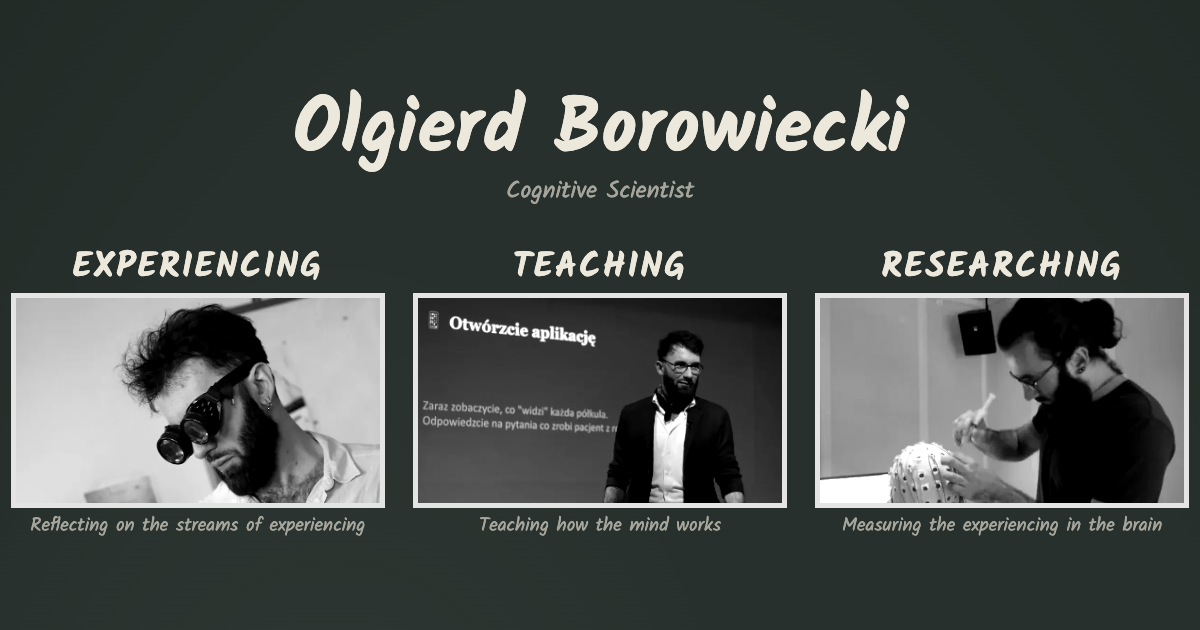
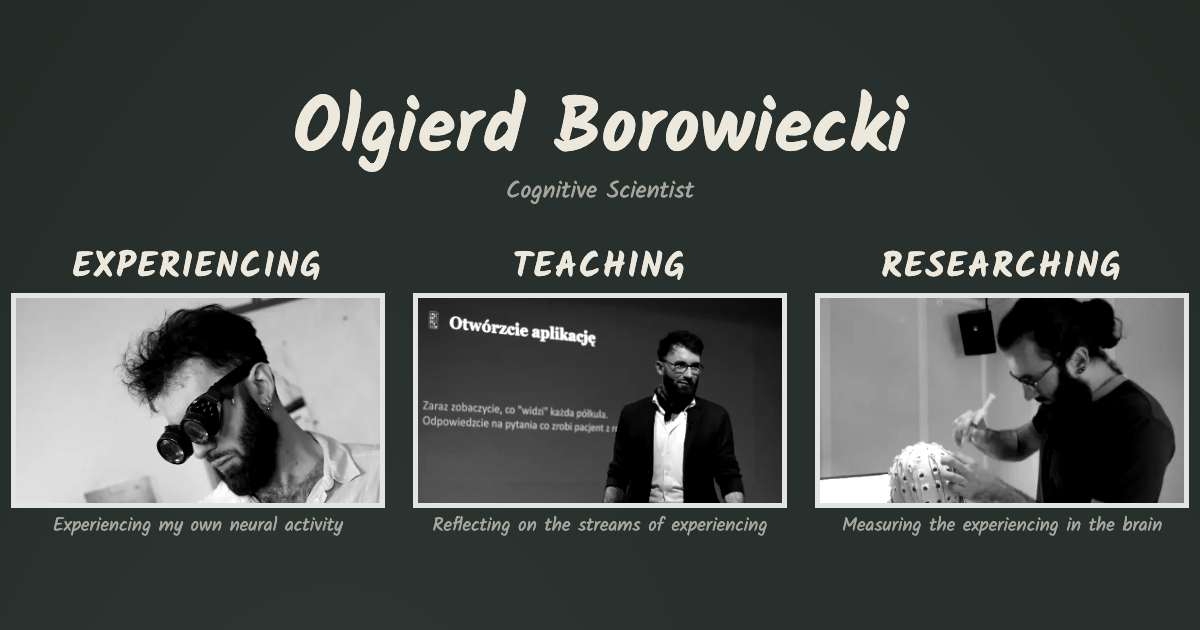
Captions: Teaching reflects on the streams of experiencing, Researching measures it in the brain

Changed region(s): [[0.3392, 0.8143, 0.6475, 0.8444], [0.0308, 0.8143, 0.3083, 0.8444]]

diff --git a/public/index.html b/public/index.html
@@ -1,4 +1,4 @@
-<!doctype html> <html lang="en"> <head> <meta charset="utf-8"> <meta name="viewport" content="width=device-width,initial-scale=1,viewport-fit=cover"> <title>Olgierd Borowiecki</title> <meta name="description" content="Olgierd Borowiecki, cognitive scientist at the University of Białystok. Teaching how the mind works, researching how the brain experiences."> <link rel="canonical" href="https://olgierdborowiecki.com/"> <meta property="og:type" content="website"> <meta property="og:url" content="https://olgierdborowiecki.com/"> <meta property="og:title" content="Olgierd Borowiecki · Cognitive Scientist"> <meta property="og:description" content="Teaching how the mind works, researching how the brain experiences."> <meta property="og:image" content="https://olgierdborowiecki.com/og.png"> <meta property="og:image:width" content="1200"> <meta property="og:image:height" content="630"> <meta name="twitter:card" content="summary_large_image"> <link rel="icon" href="favicon.svg" type="image/svg+xml"> <link rel="stylesheet" href="fonts/fonts.css"> <script type="application/ld+json">{"@context":"https://schema.org","@type":"Person","name":"Olgierd Borowiecki","jobTitle":"Cognitive Scientist","url":"https://olgierdborowiecki.com/","image":"https://olgierdborowiecki.com/og.png","email":"mailto:olgierd.borowiecki@gmail.com","affiliation":{"@type":"CollegeOrUniversity","name":"University of Białystok","department":{"@type":"Organization","name":"Faculty of Philosophy and Cognitive Science"}},"sameAs":["https://orcid.org/0000-0003-3230-6672","https://www.linkedin.com/in/olgierdborowiecki","https://www.facebook.com/kognitywista.olgierd","https://kogni.pl/"]}</script> <style>:root{color-scheme:dark;--lupek:#27302c;--kreda:#ece8dc;--kreda-2:rgba(236,232,220,.64);--tekst:"Newsreader",Georgia,"Times New Roman",serif;--reka:"Kalam","Segoe Print","Bradley Hand",cursive}html,body{margin:0;min-height:100%}html{scroll-behavior:smooth}@media (prefers-reduced-motion:reduce){html{scroll-behavior:auto}}body{background-color:var(--lupek);background-image:radial-gradient(60% 45% at 28% 38%,rgba(236,232,220,.07),transparent 70%),radial-gradient(45% 35% at 74% 70%,rgba(236,232,220,.05),transparent 70%),radial-gradient(120% 90% at 50% 50%,transparent 55%,rgba(0,0,0,.35));color:var(--kreda);font-family:var(--tekst)}h1,h2,h3,p{margin:0}a{color:inherit}a:focus-visible,button:focus-visible{outline:2px dashed var(--kreda);outline-offset:8px}#kreda{position:fixed;inset:0;width:100%;height:100%;display:block;pointer-events:none;z-index:0}.tablica{position:relative;z-index:1;min-height:100vh;min-height:100svh;box-sizing:border-box;display:flex;flex-direction:column;align-items:center;justify-content:center;gap:clamp(28px,7vh,72px);padding:max(24px,env(safe-area-inset-top,0px)) max(16px,env(safe-area-inset-right,0px)) max(24px,env(safe-area-inset-bottom,0px)) max(16px,env(safe-area-inset-left,0px))}.naglowek{display:flex;flex-direction:column;align-items:center;gap:6px}.imie{font-family:var(--reka);font-weight:700;font-size:clamp(38px,6.4vw,84px);line-height:1.05;text-align:center}.kim{font-family:var(--reka);font-size:clamp(19px,2vw,28px);line-height:1.2;color:var(--kreda-2);text-align:center}.filary{display:grid;grid-template-columns:repeat(3,minmax(0,1fr));gap:clamp(20px,3.2vw,48px);width:min(1180px,100%)}.filar{display:flex;flex-direction:column;align-items:center;gap:12px;text-decoration:none;text-align:center}.filar h2{font-family:var(--reka);font-weight:700;text-transform:uppercase;letter-spacing:.06em;font-size:clamp(26px,2.9vw,40px);line-height:1}.filar img{display:block;width:100%;aspect-ratio:16/9;height:auto;object-fit:cover;filter:grayscale(1) contrast(1.15);box-shadow:0 0 0 5px #ece8dce6;transition:filter .6s ease}.filar p{font-family:var(--reka);font-size:19px;line-height:1.25;color:var(--kreda-2)}@media (hover:hover){.filar:hover img,.filar:focus-visible img{filter:none}}@media (hover:none){.filar img{filter:none}}@media (prefers-reduced-motion:reduce){.filar img{transition:none}}.strona{position:relative;z-index:1;min-height:100vh;min-height:100svh;box-sizing:border-box;display:flex;align-items:center;justify-content:center;padding:clamp(48px,9vh,96px) max(16px,4vw)}.strona.ks{min-height:130vh;min-height:130svh}.strona h2{font-family:var(--reka);font-weight:700;text-transform:uppercase;letter-spacing:.06em;font-size:clamp(32px,4vw,52px);line-height:1}.linia{font-family:var(--reka);font-size:clamp(18px,1.6vw,23px);color:var(--kreda-2)}.strona h3{font-family:var(--reka);font-weight:400;font-size:21px;color:var(--kreda-2)}.strona p,.strona li{font-size:18px;line-height:1.55;max-width:60ch}.strona ul{margin:0;padding-left:20px;display:flex;flex-direction:column;gap:6px}.strona a{text-underline-offset:4px}.blok{display:flex;flex-direction:column;gap:10px}.tekst{display:flex;flex-direction:column;gap:22px;min-width:0}.dwa{display:grid;grid-template-columns:minmax(0,5fr) minmax(0,7fr);column-gap:clamp(24px,4vw,56px);align-items:center;width:min(1180px,100%)}.miejsce{min-height:60vh}html:not(.gl) .miejsce{display:none}html:not(.gl) .dwa{grid-template-columns:minmax(0,1fr)}.kontakt{display:flex;flex-direction:column;align-items:center;gap:16px;text-align:center;font-family:var(--reka)}.kontakt .etyk{font-size:22px;color:var(--kreda-2);margin-bottom:-10px}.kontakt{--duzy:clamp(24px,4.4vw,56px)}.kontakt .blog{font-weight:700;font-size:var(--duzy);line-height:1.1;text-decoration-thickness:2px;text-underline-offset:.36em;text-decoration-skip-ink:none;max-width:none}.kontakt .etyk.druga{margin-top:clamp(28px,7vh,64px)}.kontakt .mail{font-weight:700;font-size:var(--duzy);line-height:1.1;overflow-wrap:anywhere;max-width:none}.kontakt .mail a{text-decoration-thickness:2px;text-underline-offset:.36em;text-decoration-skip-ink:none}.kopiuj{font-family:var(--reka);font-size:17px;color:var(--kreda-2);background:transparent;border:1.5px dashed var(--kreda-2);border-radius:8px;padding:2px 14px;cursor:pointer}.kopiuj:hover{color:var(--kreda);border-color:var(--kreda)}.kontakt .linki{margin-top:clamp(28px,7vh,64px);display:flex;flex-wrap:wrap;justify-content:center;gap:6px 22px;font-size:19px;max-width:none}.kontakt .stopka{margin-top:24px;font-family:var(--tekst);font-size:13px;letter-spacing:.04em;color:var(--kreda-2);max-width:none}@media (max-width:759px){.tablica{justify-content:flex-start;padding-top:max(40px,env(safe-area-inset-top,0px))}.filary{grid-template-columns:1fr;width:100%;max-width:420px;gap:32px}.strona.ks{min-height:0}.dwa{display:flex;flex-direction:column;gap:8px}.miejsce{order:-1;width:100%;height:46vh;height:46svh;min-height:0}.strona p,.strona li{font-size:16px}}</style> </head> <body> <canvas id="kreda" aria-hidden="true"></canvas> <main class="tablica"> <header class="naglowek"> <h1 class="imie">Olgierd Borowiecki</h1> <p class="kim">Cognitive Scientist</p> </header> <nav class="filary" aria-label="What I do"> <a class="filar" href="#experiencing"><h2>Experiencing</h2><img src="img/k-gogle.webp" width="820" height="461" alt="Olgierd in magnifying goggles, looking down"><p>Reflecting on the streams of experiencing</p></a> <a class="filar" href="#teaching"><h2>Teaching</h2><img src="img/k-split.webp" width="771" height="434" alt="Olgierd in front of a split-brain experiment slide"><p>Teaching how the mind&nbsp;works</p></a> <a class="filar" href="#researching"><h2>Researching</h2><img src="img/k-eeg-p.webp" width="520" height="292" alt="Olgierd applying gel to the EEG cap of a study participant"><p>Measuring the experiencing in the brain</p></a> </nav> </main> <section class="strona" id="experiencing" aria-labelledby="h-experiencing"> <div class="dwa"> <div class="tekst"> <div><h2 id="h-experiencing">Experiencing</h2><p class="linia">my own neural activity</p></div> <p>What is real if brain damage, dreams or substances can change what I experience without my noticing? Studying the brain and living my life brought me to one hypothesis: what I experience is the activity of my brain, trained through years of feedback loops. I took on the challenge of linking lived experience to measurements of how brain networks are organised. Skating, playing games and meditating took me outside my comfort zone. There the “I” came into question too. With the content of experience and the experiencer both in doubt, the experiencing is what remains: a process, a flow, a stream of consciousness. It is also the ongoing, measurable activity of my brain networks.</p> </div> <div aria-hidden="true"></div> </div> </section> <section class="strona ks" id="teaching" aria-labelledby="h-teaching"> <div class="dwa"> <div class="tekst"> <div><h2 id="h-teaching">Teaching</h2><p class="linia">how the mind&nbsp;works</p></div> <p>At the University of Białystok I give classes in cognitive science, the science of mind and brain. On <a href="https://kogni.pl">kogni.pl</a> I write about the mind for anyone who reads Polish, my students first.</p> <div class="blok"> <h3>recent talks</h3> <ul> <li>TEDx, 2026 · <i>The rooms you haven't entered yet</i></li> <li>CYBER BRAIN, Białystok 2026 · <i>What is the mind?</i></li> <li>International Staff Week, University of Białystok 2026 · <i>Brain Networks of the Extended Mind</i></li> </ul> </div> </div> <div class="miejsce" data-k="1" aria-hidden="true"></div> </div> </section> <section class="strona ks" id="researching" aria-labelledby="h-researching"> <div class="dwa"> <div class="tekst"> <div><h2 id="h-researching">Researching</h2><p class="linia">how the brain experiences</p></div> <p>From concept cells to memory systems to brain networks, I search for theories explaining the absurdity of experiencing. I study how the brain creates the experience of its model of the world. From studies in mice to fMRI in humans, I want to understand how biological neural networks work during experience. I use games in my studies, because games are metaphors for everyday life.</p> <div class="blok"> <h3>recent publications</h3> <ul> <li><i>Perceptual Versus Memory-Guided Affordances</i>. Frontiers in Neuroscience, accepted 2026</li> <li><i>Cognitive empathy and dehumanization</i>. Evolution and Human Behavior, 2026</li> <li><i>Embodied Pixels</i>. AVANT, 2025</li> <li><i>The XPLR-XPLT Movement Spectrum</i>. Studies in Logic, Grammar and Rhetoric, 2025</li> </ul> <p><a href="https://orcid.org/0000-0003-3230-6672">ORCID 0000-0003-3230-6672</a></p> </div> </div> <div class="miejsce" data-k="2" aria-hidden="true"></div> </div> </section> <section class="strona" id="contact" aria-label="Contact"> <div class="kontakt"> <p class="etyk">I write to you:</p> <p class="blog"><a href="blog/">Blog</a></p> <p class="etyk druga">you can write to me:</p> <p class="mail" id="mail"><a href="mailto:olgierd.borowiecki@gmail.com">olgierd.borowiecki@gmail.com</a></p> <button type="button" class="kopiuj" data-kopiuj="olgierd.borowiecki@gmail.com">copy</button> <p class="linki"><a href="https://www.linkedin.com/in/olgierdborowiecki">LinkedIn</a><a href="https://www.facebook.com/kognitywista.olgierd">Facebook</a><a href="https://orcid.org/0000-0003-3230-6672">ORCID</a><a href="https://kogni.pl">kogni.pl</a></p> <p class="stopka">Olgierd Borowiecki · <a href="privacy.html">Privacy</a></p> </div> </section> <script src="js/mozg.js"></script> <script>document.addEventListener("click",function(i){var t=i.target.closest(".kopiuj");if(t){var c=t.getAttribute("data-kopiuj"),r=function(){t.textContent="copied",setTimeout(function(){t.textContent="copy"},1600)},e=function(){var n=document.getElementById("mail"),o=window.getSelection(),a=document.createRange();a.selectNodeContents(n),o.removeAllRanges(),o.addRange(a),t.textContent="selected",setTimeout(function(){t.textContent="copy"},1600)};try{navigator.clipboard&&navigator.clipboard.writeText?navigator.clipboard.writeText(c).then(r,e):e()}catch{e()}}});</script> <script src="js/three.min.js"></script> <script>(function(){var xe=document.documentElement,ya=document.getElementById("kreda"),Ja=window.matchMedia&&matchMedia("(prefers-reduced-motion: reduce)").matches,we=!!window.THREE&&function(){try{var a=document.createElement("canvas");return!!(a.getContext("webgl")||a.getContext("experimental-webgl"))}catch{return!1}}();if(!we||!window.MOZG){ya.remove();return}xe.classList.add("gl");function M(a,e,r){return Math.max(e,Math.min(r,a))}function V(a,e,r){var n=M((r-a)/(e-a),0,1);return n*n*(3-2*n)}var aa=20261022;function F(){aa|=0,aa=aa+1831565813|0;var a=Math.imul(aa^aa>>>15,1|aa);return a=a+Math.imul(a^a>>>7,61|a)^a,((a^a>>>14)>>>0)/4294967296}function be(a){var e=new Uint32Array(a),r,n,t;for(r=0;r<a;r++)e[r]=r;for(r=a-1;r>0;r--)n=Math.floor(F()*(r+1)),t=e[r],e[r]=e[n],e[n]=t;return e}function Ca(a){return(F()-.5)*a}function Aa(a){for(var e=atob(a),r=new Uint8Array(e.length),n=0;n<e.length;n++)r[n]=e.charCodeAt(n);return r}var v,Z,w,I,qa,ca,U=18e3,fa=new Float32Array(U*3),Oa=new Float32Array(U*2);for(v=0;v<U;v++)Oa[2*v+1]=F();var sa=80,G=108;function ma(a){return 30*a*Math.pow(1-a,1.2)+3*a}var ke=be(U),Ka=0;function xa(a,e,r,n){Ka>=U||(ca=ke[Ka++],fa[3*ca]=a,fa[3*ca+1]=e,fa[3*ca+2]=r,Oa[2*ca]=n)}function ja(a){var e=F()*(a?376:268);return e<108?[1,(e/108-.5)*G]:e<188?[(e-108)/80,G/2]:e<268?[(e-188)/80,-G/2]:[0,((e-268)/108-.5)*G]}for(Z=0;Z<7e3;Z++)I=F()<.5?-1:1,w=ja(!0),xa(I*w[0]*sa+Ca(.7),w[1]+Ca(.7),ma(w[0])+Ca(.5),w[0]===0?.5:.95);for(Z=0;Z<5e3;Z++){I=F()<.5?-1:1,w=ja(!1);var Wa=1+Math.floor(F()*6);xa(I*w[0]*(sa-Wa*.15),w[1]*(1-Wa*.002),ma(w[0])-Wa*1.4*Math.min(1,w[0]*3),.4)}for(Z=0;Z<3e3;Z++)I=F()<.5?-1:1,w=ja(!1),xa(I*w[0]*(sa+5),w[1]*(G+8)/G,ma(w[0])*.8-10*Math.min(1,w[0]*3)-1.5,.55);for(;Ka<U;)I=F()<.5?-1:1,qa=F(),xa(I*qa*sa,(F()-.5)*G,ma(qa),.06);var wa=window.MOZG,b=wa.n,La=new Int16Array(Aa(wa.p).buffer),Va=new Int8Array(Aa(wa.nm).buffer),ge=new Int8Array(Aa(wa.s).buffer),s=new Float32Array(b*3),B=new Float32Array(b*3),ha=new Float32Array(b*2),Q=new Float32Array(b*2),ea=.57,ra=.5,z=new THREE.Vector3(0,-6,64*ra+4);for(v=0;v<b;v++){var Te=-La[3*v+1]/100,Za=La[3*v+2]/100,ie=-La[3*v]/100;s[3*v]=Te,s[3*v+1]=Za,s[3*v+2]=ie,B[3*v]=-Va[3*v+1]/127,B[3*v+1]=Va[3*v+2]/127,B[3*v+2]=-Va[3*v]/127,ha[2*v]=ge[v]/127*2,ha[2*v+1]=F();var le=ie>=0?1:-1,ze=le>0?-40+Za*ea:40-Za*ea;Q[2*v]=le,Q[2*v+1]=ma(M(Math.abs(ze)/sa,0,1))+.4}var ve=new Float32Array(b),ce=new Float32Array(b);(function(){function a(e,r){var n=Math.sin(e*12.9898+r*78.233)*43758.5453;return n-Math.floor(n)}[1,-1].forEach(function(e){var r=[],n=0,t=0,o=[1e9,1e9],i=[-1e9,-1e9],m,h;for(m=0;m<b;m++)Q[2*m]===e&&(r.push(m),n+=s[3*m+1],t+=s[3*m],o[0]=Math.min(o[0],s[3*m+1]),i[0]=Math.max(i[0],s[3*m+1]),o[1]=Math.min(o[1],s[3*m]),i[1]=Math.max(i[1],s[3*m]));n/=r.length,t/=r.length;var E=180,j=new Float32Array(E),H=new Float32Array(b),p=new Float32Array(b);r.forEach(function(f){var W=s[3*f+1]-n,P=s[3*f]-t,g=(Math.atan2(P,W)/6.2832+1.25)%1;H[f]=g,p[f]=Math.hypot(W,P);var A=Math.floor(g*E)%E;j[A]=Math.max(j[A],p[f])});var C=5,d=4,c=[];for(h=0;h<C*d;h++)c.push(h);for(h=c.length-1;h>0;h--){var l=Math.floor(a(h,e+3)*(h+1)),y=c[h];c[h]=c[l],c[l]=y}r.forEach(function(f){var W=Math.floor(H[f]*E)%E,P=e*B[3*f+2]>-.2,g;if(P&&p[f]>.94*j[W])g=.32*H[f]+.01*a(f,1),ce[f]=1;else if(P&&ha[2*f]<-.3){var A=Math.min(C-1,Math.floor((s[3*f+1]-o[0])/(i[0]-o[0]+1e-6)*C)),x=Math.min(d-1,Math.floor((s[3*f]-o[1])/(i[1]-o[1]+1e-6)*d));g=.34+.5*(c[x*C+A]+.85*a(f,2))/(C*d)}else g=.84+.16*a(f,3);ve[f]=(e>0?0:.4)+.6*g})})})();var ba=[{h:1,w:[[.24,.86],[.18,.4],[.44,.4],[.74,.68]],k:[[0,3],[0,1],[1,2],[2,3],[0,2]]},{h:-1,w:[[.08,.6],[.27,.72],[.63,.78],[.66,.47]],k:[[0,1],[1,2],[2,3],[1,3],[0,2]]}];(function(){var a=1e9,e=-1e9,r=1e9,n=-1e9,t;for(t=0;t<b;t++)a=Math.min(a,s[3*t]),e=Math.max(e,s[3*t]),r=Math.min(r,s[3*t+1]),n=Math.max(n,s[3*t+1]);ba.forEach(function(o){o.n=o.w.map(function(i){var m=-1,h=1e9;for(t=0;t<b;t++)if(!(Q[2*t]!==o.h||o.h*B[3*t+2]<.45||ha[2*t]>-.3)){var E=Math.hypot((s[3*t]-a)/(e-a)-i[0],(s[3*t+1]-r)/(n-r)-i[1]);E<h&&(h=E,m=t)}return m})})})();function Ba(a,e,r,n,t,o,i,m,h){return new THREE.Matrix4().set(a,e,r,0,n,t,o,0,i,m,h,0,0,0,0,1)}var He=new THREE.Quaternion().setFromRotationMatrix(Ba(0,1,0,-1,0,0,0,0,1)),Pe=new THREE.Quaternion().setFromRotationMatrix(Ba(0,-1,0,-1,0,0,0,0,-1)),fe=new THREE.Quaternion().setFromRotationMatrix(Ba(1,0,0,0,0,-1,0,1,0)),Se=new THREE.Vector3(-40,0,0),Fe=new THREE.Vector3(40,0,0);function Je(a,e,r){e[r]=s[3*a]*ra+z.x,e[r+1]=-s[3*a+2]*ra+z.y,e[r+2]=s[3*a+1]*ra+z.z}var u={uR:{value:new THREE.Matrix3},uCel:{value:new THREE.Vector3},uOdl:{value:400},uF:{value:1e3},uPrz:{value:new THREE.Vector2},uKam:{value:new THREE.Vector3},uC:{value:new THREE.Vector2},uPolR:{value:new THREE.Vector2(1,1)},uWH:{value:new THREE.Vector2(1,1)},uWir:{value:40},uRozm:{value:2},uWidM:{value:1},uCzas:{value:0},uOkr:{value:0},uRL:{value:new THREE.Matrix3},uRR:{value:new THREE.Matrix3},uTL:{value:new THREE.Vector3},uTR:{value:new THREE.Vector3},uSc:{value:ea},uKs:{value:0},uZal:{value:0},uCB:{value:z},uSB:{value:ra},uJasK:{value:1},uJasM:{value:1},uObrys:{value:.9},uRys:{value:1},uSiecL:{value:0},uSiecP:{value:0},uSiecA:{value:0}},Ce=["uniform mat3 uR; uniform vec3 uCel; uniform float uOdl; uniform float uF; uniform vec2 uPrz; uniform vec3 uKam;","uniform vec2 uC; uniform vec2 uPolR; uniform vec2 uWH; uniform float uWir; uniform float uRozm; uniform float uWidM; uniform float uCzas; uniform float uOkr;","uniform mat3 uRL; uniform mat3 uRR; uniform vec3 uTL; uniform vec3 uTR; uniform float uSc; uniform float uKs; uniform float uZal;","uniform vec3 uCB; uniform float uSB; uniform float uJasK; uniform float uJasM; uniform float uObrys;","uniform float uP; uniform float uO; uniform float uRys; uniform float uSiecL; uniform float uSiecP; uniform float uSiecA;","varying float vJ;","vec3 widok(vec3 P){ vec3 v = uR * (P - uCel); v.xy -= uPrz; return v; }","vec3 rzut(vec3 P){ vec3 v = widok(P); float g = uOdl - v.z; return vec3(uC + vec2(v.x, -v.y) * uF / max(g, 0.5), g); }","float okno(vec2 px){ vec2 q = abs(px - uC) / uPolR, q2 = q * q; float d = mix(sqrt(sqrt(dot(q2, q2))), length(q), uOkr); return 1.0 - smoothstep(mix(0.9, 0.72, uOkr), 1.06, d); }","vec2 pyl(float r){ vec2 h = fract(sin(r * vec2(12.9898, 78.233)) * 43758.5453); float a = 6.2832 * h.x; return uC + vec2(cos(a), sin(a)) * sqrt(h.y) * uPolR * 0.98; }","float krok(float x, float r){ float e = clamp(x * 1.5 - r * 0.5, 0.0, 1.0); return e * e * (3.0 - 2.0 * e); }","void stan(vec3 cel, vec2 start, float j, float r, float e, float wir){","  float o = krok(uO, fract(r * 7.13));","  vec2 p = mix(start, cel.xy, e);","  p += vec2(sin(r * 41.0), cos(r * 29.0)) * wir * sin(3.14159 * e);","  p = mix(p, pyl(fract(r * 3.71)), o);","  vJ = uWidM * j * smoothstep(0.15, 0.85, e) * (1.0 - smoothstep(0.0, 0.8, o)) * okno(p) * smoothstep(1.0, 8.0, cel.z);","  if (vJ < 0.02 || cel.z < 1.0) { gl_Position = vec4(2.0, 2.0, 2.0, 1.0); gl_PointSize = 0.0; return; }","  gl_Position = vec4(p.x / uWH.x * 2.0 - 1.0, 1.0 - p.y / uWH.y * 2.0, 0.0, 1.0);","  gl_PointSize = uRozm;","}"].join(`
+<!doctype html> <html lang="en"> <head> <meta charset="utf-8"> <meta name="viewport" content="width=device-width,initial-scale=1,viewport-fit=cover"> <title>Olgierd Borowiecki</title> <meta name="description" content="Olgierd Borowiecki, cognitive scientist at the University of Białystok. Teaching how the mind works, researching how the brain experiences."> <link rel="canonical" href="https://olgierdborowiecki.com/"> <meta property="og:type" content="website"> <meta property="og:url" content="https://olgierdborowiecki.com/"> <meta property="og:title" content="Olgierd Borowiecki · Cognitive Scientist"> <meta property="og:description" content="Teaching how the mind works, researching how the brain experiences."> <meta property="og:image" content="https://olgierdborowiecki.com/og.png"> <meta property="og:image:width" content="1200"> <meta property="og:image:height" content="630"> <meta name="twitter:card" content="summary_large_image"> <link rel="icon" href="favicon.svg" type="image/svg+xml"> <link rel="stylesheet" href="fonts/fonts.css"> <script type="application/ld+json">{"@context":"https://schema.org","@type":"Person","name":"Olgierd Borowiecki","jobTitle":"Cognitive Scientist","url":"https://olgierdborowiecki.com/","image":"https://olgierdborowiecki.com/og.png","email":"mailto:olgierd.borowiecki@gmail.com","affiliation":{"@type":"CollegeOrUniversity","name":"University of Białystok","department":{"@type":"Organization","name":"Faculty of Philosophy and Cognitive Science"}},"sameAs":["https://orcid.org/0000-0003-3230-6672","https://www.linkedin.com/in/olgierdborowiecki","https://www.facebook.com/kognitywista.olgierd","https://kogni.pl/"]}</script> <style>:root{color-scheme:dark;--lupek:#27302c;--kreda:#ece8dc;--kreda-2:rgba(236,232,220,.64);--tekst:"Newsreader",Georgia,"Times New Roman",serif;--reka:"Kalam","Segoe Print","Bradley Hand",cursive}html,body{margin:0;min-height:100%}html{scroll-behavior:smooth}@media (prefers-reduced-motion:reduce){html{scroll-behavior:auto}}body{background-color:var(--lupek);background-image:radial-gradient(60% 45% at 28% 38%,rgba(236,232,220,.07),transparent 70%),radial-gradient(45% 35% at 74% 70%,rgba(236,232,220,.05),transparent 70%),radial-gradient(120% 90% at 50% 50%,transparent 55%,rgba(0,0,0,.35));color:var(--kreda);font-family:var(--tekst)}h1,h2,h3,p{margin:0}a{color:inherit}a:focus-visible,button:focus-visible{outline:2px dashed var(--kreda);outline-offset:8px}#kreda{position:fixed;inset:0;width:100%;height:100%;display:block;pointer-events:none;z-index:0}.tablica{position:relative;z-index:1;min-height:100vh;min-height:100svh;box-sizing:border-box;display:flex;flex-direction:column;align-items:center;justify-content:center;gap:clamp(28px,7vh,72px);padding:max(24px,env(safe-area-inset-top,0px)) max(16px,env(safe-area-inset-right,0px)) max(24px,env(safe-area-inset-bottom,0px)) max(16px,env(safe-area-inset-left,0px))}.naglowek{display:flex;flex-direction:column;align-items:center;gap:6px}.imie{font-family:var(--reka);font-weight:700;font-size:clamp(38px,6.4vw,84px);line-height:1.05;text-align:center}.kim{font-family:var(--reka);font-size:clamp(19px,2vw,28px);line-height:1.2;color:var(--kreda-2);text-align:center}.filary{display:grid;grid-template-columns:repeat(3,minmax(0,1fr));gap:clamp(20px,3.2vw,48px);width:min(1180px,100%)}.filar{display:flex;flex-direction:column;align-items:center;gap:12px;text-decoration:none;text-align:center}.filar h2{font-family:var(--reka);font-weight:700;text-transform:uppercase;letter-spacing:.06em;font-size:clamp(26px,2.9vw,40px);line-height:1}.filar img{display:block;width:100%;aspect-ratio:16/9;height:auto;object-fit:cover;filter:grayscale(1) contrast(1.15);box-shadow:0 0 0 5px #ece8dce6;transition:filter .6s ease}.filar p{font-family:var(--reka);font-size:19px;line-height:1.25;color:var(--kreda-2)}@media (hover:hover){.filar:hover img,.filar:focus-visible img{filter:none}}@media (hover:none){.filar img{filter:none}}@media (prefers-reduced-motion:reduce){.filar img{transition:none}}.strona{position:relative;z-index:1;min-height:100vh;min-height:100svh;box-sizing:border-box;display:flex;align-items:center;justify-content:center;padding:clamp(48px,9vh,96px) max(16px,4vw)}.strona.ks{min-height:130vh;min-height:130svh}.strona h2{font-family:var(--reka);font-weight:700;text-transform:uppercase;letter-spacing:.06em;font-size:clamp(32px,4vw,52px);line-height:1}.linia{font-family:var(--reka);font-size:clamp(18px,1.6vw,23px);color:var(--kreda-2)}.strona h3{font-family:var(--reka);font-weight:400;font-size:21px;color:var(--kreda-2)}.strona p,.strona li{font-size:18px;line-height:1.55;max-width:60ch}.strona ul{margin:0;padding-left:20px;display:flex;flex-direction:column;gap:6px}.strona a{text-underline-offset:4px}.blok{display:flex;flex-direction:column;gap:10px}.tekst{display:flex;flex-direction:column;gap:22px;min-width:0}.dwa{display:grid;grid-template-columns:minmax(0,5fr) minmax(0,7fr);column-gap:clamp(24px,4vw,56px);align-items:center;width:min(1180px,100%)}.miejsce{min-height:60vh}html:not(.gl) .miejsce{display:none}html:not(.gl) .dwa{grid-template-columns:minmax(0,1fr)}.kontakt{display:flex;flex-direction:column;align-items:center;gap:16px;text-align:center;font-family:var(--reka)}.kontakt .etyk{font-size:22px;color:var(--kreda-2);margin-bottom:-10px}.kontakt{--duzy:clamp(24px,4.4vw,56px)}.kontakt .blog{font-weight:700;font-size:var(--duzy);line-height:1.1;text-decoration-thickness:2px;text-underline-offset:.36em;text-decoration-skip-ink:none;max-width:none}.kontakt .etyk.druga{margin-top:clamp(28px,7vh,64px)}.kontakt .mail{font-weight:700;font-size:var(--duzy);line-height:1.1;overflow-wrap:anywhere;max-width:none}.kontakt .mail a{text-decoration-thickness:2px;text-underline-offset:.36em;text-decoration-skip-ink:none}.kopiuj{font-family:var(--reka);font-size:17px;color:var(--kreda-2);background:transparent;border:1.5px dashed var(--kreda-2);border-radius:8px;padding:2px 14px;cursor:pointer}.kopiuj:hover{color:var(--kreda);border-color:var(--kreda)}.kontakt .linki{margin-top:clamp(28px,7vh,64px);display:flex;flex-wrap:wrap;justify-content:center;gap:6px 22px;font-size:19px;max-width:none}.kontakt .stopka{margin-top:24px;font-family:var(--tekst);font-size:13px;letter-spacing:.04em;color:var(--kreda-2);max-width:none}@media (max-width:759px){.tablica{justify-content:flex-start;padding-top:max(40px,env(safe-area-inset-top,0px))}.filary{grid-template-columns:1fr;width:100%;max-width:420px;gap:32px}.strona.ks{min-height:0}.dwa{display:flex;flex-direction:column;gap:8px}.miejsce{order:-1;width:100%;height:46vh;height:46svh;min-height:0}.strona p,.strona li{font-size:16px}}</style> </head> <body> <canvas id="kreda" aria-hidden="true"></canvas> <main class="tablica"> <header class="naglowek"> <h1 class="imie">Olgierd Borowiecki</h1> <p class="kim">Cognitive Scientist</p> </header> <nav class="filary" aria-label="What I do"> <a class="filar" href="#experiencing"><h2>Experiencing</h2><img src="img/k-gogle.webp" width="820" height="461" alt="Olgierd in magnifying goggles, looking down"><p>Experiencing my own neural activity</p></a> <a class="filar" href="#teaching"><h2>Teaching</h2><img src="img/k-split.webp" width="771" height="434" alt="Olgierd in front of a split-brain experiment slide"><p>Reflecting on the streams of experiencing</p></a> <a class="filar" href="#researching"><h2>Researching</h2><img src="img/k-eeg-p.webp" width="520" height="292" alt="Olgierd applying gel to the EEG cap of a study participant"><p>Measuring the experiencing in the brain</p></a> </nav> </main> <section class="strona" id="experiencing" aria-labelledby="h-experiencing"> <div class="dwa"> <div class="tekst"> <div><h2 id="h-experiencing">Experiencing</h2><p class="linia">my own neural activity</p></div> <p>What is real if brain damage, dreams or substances can change what I experience without my noticing? Studying the brain and living my life brought me to one hypothesis: what I experience is the activity of my brain, trained through years of feedback loops. I took on the challenge of linking lived experience to measurements of how brain networks are organised. Skating, playing games and meditating took me outside my comfort zone. There the “I” came into question too. With the content of experience and the experiencer both in doubt, the experiencing is what remains: a process, a flow, a stream of consciousness. It is also the ongoing, measurable activity of my brain networks.</p> </div> <div aria-hidden="true"></div> </div> </section> <section class="strona ks" id="teaching" aria-labelledby="h-teaching"> <div class="dwa"> <div class="tekst"> <div><h2 id="h-teaching">Teaching</h2><p class="linia">how the mind&nbsp;works</p></div> <p>At the University of Białystok I give classes in cognitive science, the science of mind and brain. On <a href="https://kogni.pl">kogni.pl</a> I write about the mind for anyone who reads Polish, my students first.</p> <div class="blok"> <h3>recent talks</h3> <ul> <li>TEDx, 2026 · <i>The rooms you haven't entered yet</i></li> <li>CYBER BRAIN, Białystok 2026 · <i>What is the mind?</i></li> <li>International Staff Week, University of Białystok 2026 · <i>Brain Networks of the Extended Mind</i></li> </ul> </div> </div> <div class="miejsce" data-k="1" aria-hidden="true"></div> </div> </section> <section class="strona ks" id="researching" aria-labelledby="h-researching"> <div class="dwa"> <div class="tekst"> <div><h2 id="h-researching">Researching</h2><p class="linia">how the brain experiences</p></div> <p>From concept cells to memory systems to brain networks, I search for theories explaining the absurdity of experiencing. I study how the brain creates the experience of its model of the world. From studies in mice to fMRI in humans, I want to understand how biological neural networks work during experience. I use games in my studies, because games are metaphors for everyday life.</p> <div class="blok"> <h3>recent publications</h3> <ul> <li><i>Perceptual Versus Memory-Guided Affordances</i>. Frontiers in Neuroscience, accepted 2026</li> <li><i>Cognitive empathy and dehumanization</i>. Evolution and Human Behavior, 2026</li> <li><i>Embodied Pixels</i>. AVANT, 2025</li> <li><i>The XPLR-XPLT Movement Spectrum</i>. Studies in Logic, Grammar and Rhetoric, 2025</li> </ul> <p><a href="https://orcid.org/0000-0003-3230-6672">ORCID 0000-0003-3230-6672</a></p> </div> </div> <div class="miejsce" data-k="2" aria-hidden="true"></div> </div> </section> <section class="strona" id="contact" aria-label="Contact"> <div class="kontakt"> <p class="etyk">I write to you:</p> <p class="blog"><a href="blog/">Blog</a></p> <p class="etyk druga">you can write to me:</p> <p class="mail" id="mail"><a href="mailto:olgierd.borowiecki@gmail.com">olgierd.borowiecki@gmail.com</a></p> <button type="button" class="kopiuj" data-kopiuj="olgierd.borowiecki@gmail.com">copy</button> <p class="linki"><a href="https://www.linkedin.com/in/olgierdborowiecki">LinkedIn</a><a href="https://www.facebook.com/kognitywista.olgierd">Facebook</a><a href="https://orcid.org/0000-0003-3230-6672">ORCID</a><a href="https://kogni.pl">kogni.pl</a></p> <p class="stopka">Olgierd Borowiecki · <a href="privacy.html">Privacy</a></p> </div> </section> <script src="js/mozg.js"></script> <script>document.addEventListener("click",function(i){var t=i.target.closest(".kopiuj");if(t){var c=t.getAttribute("data-kopiuj"),r=function(){t.textContent="copied",setTimeout(function(){t.textContent="copy"},1600)},e=function(){var n=document.getElementById("mail"),o=window.getSelection(),a=document.createRange();a.selectNodeContents(n),o.removeAllRanges(),o.addRange(a),t.textContent="selected",setTimeout(function(){t.textContent="copy"},1600)};try{navigator.clipboard&&navigator.clipboard.writeText?navigator.clipboard.writeText(c).then(r,e):e()}catch{e()}}});</script> <script src="js/three.min.js"></script> <script>(function(){var xe=document.documentElement,ya=document.getElementById("kreda"),Ja=window.matchMedia&&matchMedia("(prefers-reduced-motion: reduce)").matches,we=!!window.THREE&&function(){try{var a=document.createElement("canvas");return!!(a.getContext("webgl")||a.getContext("experimental-webgl"))}catch{return!1}}();if(!we||!window.MOZG){ya.remove();return}xe.classList.add("gl");function M(a,e,r){return Math.max(e,Math.min(r,a))}function V(a,e,r){var n=M((r-a)/(e-a),0,1);return n*n*(3-2*n)}var aa=20261022;function F(){aa|=0,aa=aa+1831565813|0;var a=Math.imul(aa^aa>>>15,1|aa);return a=a+Math.imul(a^a>>>7,61|a)^a,((a^a>>>14)>>>0)/4294967296}function be(a){var e=new Uint32Array(a),r,n,t;for(r=0;r<a;r++)e[r]=r;for(r=a-1;r>0;r--)n=Math.floor(F()*(r+1)),t=e[r],e[r]=e[n],e[n]=t;return e}function Ca(a){return(F()-.5)*a}function Aa(a){for(var e=atob(a),r=new Uint8Array(e.length),n=0;n<e.length;n++)r[n]=e.charCodeAt(n);return r}var v,Z,w,I,qa,ca,U=18e3,fa=new Float32Array(U*3),Oa=new Float32Array(U*2);for(v=0;v<U;v++)Oa[2*v+1]=F();var sa=80,G=108;function ma(a){return 30*a*Math.pow(1-a,1.2)+3*a}var ke=be(U),Ka=0;function xa(a,e,r,n){Ka>=U||(ca=ke[Ka++],fa[3*ca]=a,fa[3*ca+1]=e,fa[3*ca+2]=r,Oa[2*ca]=n)}function ja(a){var e=F()*(a?376:268);return e<108?[1,(e/108-.5)*G]:e<188?[(e-108)/80,G/2]:e<268?[(e-188)/80,-G/2]:[0,((e-268)/108-.5)*G]}for(Z=0;Z<7e3;Z++)I=F()<.5?-1:1,w=ja(!0),xa(I*w[0]*sa+Ca(.7),w[1]+Ca(.7),ma(w[0])+Ca(.5),w[0]===0?.5:.95);for(Z=0;Z<5e3;Z++){I=F()<.5?-1:1,w=ja(!1);var Wa=1+Math.floor(F()*6);xa(I*w[0]*(sa-Wa*.15),w[1]*(1-Wa*.002),ma(w[0])-Wa*1.4*Math.min(1,w[0]*3),.4)}for(Z=0;Z<3e3;Z++)I=F()<.5?-1:1,w=ja(!1),xa(I*w[0]*(sa+5),w[1]*(G+8)/G,ma(w[0])*.8-10*Math.min(1,w[0]*3)-1.5,.55);for(;Ka<U;)I=F()<.5?-1:1,qa=F(),xa(I*qa*sa,(F()-.5)*G,ma(qa),.06);var wa=window.MOZG,b=wa.n,La=new Int16Array(Aa(wa.p).buffer),Va=new Int8Array(Aa(wa.nm).buffer),ge=new Int8Array(Aa(wa.s).buffer),s=new Float32Array(b*3),B=new Float32Array(b*3),ha=new Float32Array(b*2),Q=new Float32Array(b*2),ea=.57,ra=.5,z=new THREE.Vector3(0,-6,64*ra+4);for(v=0;v<b;v++){var Te=-La[3*v+1]/100,Za=La[3*v+2]/100,ie=-La[3*v]/100;s[3*v]=Te,s[3*v+1]=Za,s[3*v+2]=ie,B[3*v]=-Va[3*v+1]/127,B[3*v+1]=Va[3*v+2]/127,B[3*v+2]=-Va[3*v]/127,ha[2*v]=ge[v]/127*2,ha[2*v+1]=F();var le=ie>=0?1:-1,ze=le>0?-40+Za*ea:40-Za*ea;Q[2*v]=le,Q[2*v+1]=ma(M(Math.abs(ze)/sa,0,1))+.4}var ve=new Float32Array(b),ce=new Float32Array(b);(function(){function a(e,r){var n=Math.sin(e*12.9898+r*78.233)*43758.5453;return n-Math.floor(n)}[1,-1].forEach(function(e){var r=[],n=0,t=0,o=[1e9,1e9],i=[-1e9,-1e9],m,h;for(m=0;m<b;m++)Q[2*m]===e&&(r.push(m),n+=s[3*m+1],t+=s[3*m],o[0]=Math.min(o[0],s[3*m+1]),i[0]=Math.max(i[0],s[3*m+1]),o[1]=Math.min(o[1],s[3*m]),i[1]=Math.max(i[1],s[3*m]));n/=r.length,t/=r.length;var E=180,j=new Float32Array(E),H=new Float32Array(b),p=new Float32Array(b);r.forEach(function(f){var W=s[3*f+1]-n,P=s[3*f]-t,g=(Math.atan2(P,W)/6.2832+1.25)%1;H[f]=g,p[f]=Math.hypot(W,P);var A=Math.floor(g*E)%E;j[A]=Math.max(j[A],p[f])});var C=5,d=4,c=[];for(h=0;h<C*d;h++)c.push(h);for(h=c.length-1;h>0;h--){var l=Math.floor(a(h,e+3)*(h+1)),y=c[h];c[h]=c[l],c[l]=y}r.forEach(function(f){var W=Math.floor(H[f]*E)%E,P=e*B[3*f+2]>-.2,g;if(P&&p[f]>.94*j[W])g=.32*H[f]+.01*a(f,1),ce[f]=1;else if(P&&ha[2*f]<-.3){var A=Math.min(C-1,Math.floor((s[3*f+1]-o[0])/(i[0]-o[0]+1e-6)*C)),x=Math.min(d-1,Math.floor((s[3*f]-o[1])/(i[1]-o[1]+1e-6)*d));g=.34+.5*(c[x*C+A]+.85*a(f,2))/(C*d)}else g=.84+.16*a(f,3);ve[f]=(e>0?0:.4)+.6*g})})})();var ba=[{h:1,w:[[.24,.86],[.18,.4],[.44,.4],[.74,.68]],k:[[0,3],[0,1],[1,2],[2,3],[0,2]]},{h:-1,w:[[.08,.6],[.27,.72],[.63,.78],[.66,.47]],k:[[0,1],[1,2],[2,3],[1,3],[0,2]]}];(function(){var a=1e9,e=-1e9,r=1e9,n=-1e9,t;for(t=0;t<b;t++)a=Math.min(a,s[3*t]),e=Math.max(e,s[3*t]),r=Math.min(r,s[3*t+1]),n=Math.max(n,s[3*t+1]);ba.forEach(function(o){o.n=o.w.map(function(i){var m=-1,h=1e9;for(t=0;t<b;t++)if(!(Q[2*t]!==o.h||o.h*B[3*t+2]<.45||ha[2*t]>-.3)){var E=Math.hypot((s[3*t]-a)/(e-a)-i[0],(s[3*t+1]-r)/(n-r)-i[1]);E<h&&(h=E,m=t)}return m})})})();function Ba(a,e,r,n,t,o,i,m,h){return new THREE.Matrix4().set(a,e,r,0,n,t,o,0,i,m,h,0,0,0,0,1)}var He=new THREE.Quaternion().setFromRotationMatrix(Ba(0,1,0,-1,0,0,0,0,1)),Pe=new THREE.Quaternion().setFromRotationMatrix(Ba(0,-1,0,-1,0,0,0,0,-1)),fe=new THREE.Quaternion().setFromRotationMatrix(Ba(1,0,0,0,0,-1,0,1,0)),Se=new THREE.Vector3(-40,0,0),Fe=new THREE.Vector3(40,0,0);function Je(a,e,r){e[r]=s[3*a]*ra+z.x,e[r+1]=-s[3*a+2]*ra+z.y,e[r+2]=s[3*a+1]*ra+z.z}var u={uR:{value:new THREE.Matrix3},uCel:{value:new THREE.Vector3},uOdl:{value:400},uF:{value:1e3},uPrz:{value:new THREE.Vector2},uKam:{value:new THREE.Vector3},uC:{value:new THREE.Vector2},uPolR:{value:new THREE.Vector2(1,1)},uWH:{value:new THREE.Vector2(1,1)},uWir:{value:40},uRozm:{value:2},uWidM:{value:1},uCzas:{value:0},uOkr:{value:0},uRL:{value:new THREE.Matrix3},uRR:{value:new THREE.Matrix3},uTL:{value:new THREE.Vector3},uTR:{value:new THREE.Vector3},uSc:{value:ea},uKs:{value:0},uZal:{value:0},uCB:{value:z},uSB:{value:ra},uJasK:{value:1},uJasM:{value:1},uObrys:{value:.9},uRys:{value:1},uSiecL:{value:0},uSiecP:{value:0},uSiecA:{value:0}},Ce=["uniform mat3 uR; uniform vec3 uCel; uniform float uOdl; uniform float uF; uniform vec2 uPrz; uniform vec3 uKam;","uniform vec2 uC; uniform vec2 uPolR; uniform vec2 uWH; uniform float uWir; uniform float uRozm; uniform float uWidM; uniform float uCzas; uniform float uOkr;","uniform mat3 uRL; uniform mat3 uRR; uniform vec3 uTL; uniform vec3 uTR; uniform float uSc; uniform float uKs; uniform float uZal;","uniform vec3 uCB; uniform float uSB; uniform float uJasK; uniform float uJasM; uniform float uObrys;","uniform float uP; uniform float uO; uniform float uRys; uniform float uSiecL; uniform float uSiecP; uniform float uSiecA;","varying float vJ;","vec3 widok(vec3 P){ vec3 v = uR * (P - uCel); v.xy -= uPrz; return v; }","vec3 rzut(vec3 P){ vec3 v = widok(P); float g = uOdl - v.z; return vec3(uC + vec2(v.x, -v.y) * uF / max(g, 0.5), g); }","float okno(vec2 px){ vec2 q = abs(px - uC) / uPolR, q2 = q * q; float d = mix(sqrt(sqrt(dot(q2, q2))), length(q), uOkr); return 1.0 - smoothstep(mix(0.9, 0.72, uOkr), 1.06, d); }","vec2 pyl(float r){ vec2 h = fract(sin(r * vec2(12.9898, 78.233)) * 43758.5453); float a = 6.2832 * h.x; return uC + vec2(cos(a), sin(a)) * sqrt(h.y) * uPolR * 0.98; }","float krok(float x, float r){ float e = clamp(x * 1.5 - r * 0.5, 0.0, 1.0); return e * e * (3.0 - 2.0 * e); }","void stan(vec3 cel, vec2 start, float j, float r, float e, float wir){","  float o = krok(uO, fract(r * 7.13));","  vec2 p = mix(start, cel.xy, e);","  p += vec2(sin(r * 41.0), cos(r * 29.0)) * wir * sin(3.14159 * e);","  p = mix(p, pyl(fract(r * 3.71)), o);","  vJ = uWidM * j * smoothstep(0.15, 0.85, e) * (1.0 - smoothstep(0.0, 0.8, o)) * okno(p) * smoothstep(1.0, 8.0, cel.z);","  if (vJ < 0.02 || cel.z < 1.0) { gl_Position = vec4(2.0, 2.0, 2.0, 1.0); gl_PointSize = 0.0; return; }","  gl_Position = vec4(p.x / uWH.x * 2.0 - 1.0, 1.0 - p.y / uWH.y * 2.0, 0.0, 1.0);","  gl_PointSize = uRozm;","}"].join(`
 `),Ae=["varying float vJ;","float hash(vec2 p){ return fract(sin(dot(p, vec2(12.9898, 78.233))) * 43758.5453); }","void main(){ vec2 c = gl_PointCoord - 0.5; float r = length(c); if (r > 0.5) discard;","  float a = smoothstep(0.5, 0.12, r) * (0.6 + 0.4 * hash(floor(gl_FragCoord.xy)));","  vec3 kol = vec3(0.94, 0.92, 0.86) * min(vJ, 1.2) * a * 0.9;","  gl_FragColor = vec4(kol, max(kol.r, max(kol.g, kol.b))); }"].join(`
 `),qe=["attribute vec2 aJ;","void main(){","  vec3 P = position; vec3 osie = vec3(79.0, 62.0, 57.0) * uSB;","  vec3 o = (uKam - uCB) / osie, d = (P - uKam) / osie;","  float a = dot(d, d), b = dot(o, d), c = dot(o, o) - 1.0, delta = b * b - a * c;","  float t0 = (-b - sqrt(max(delta, 0.0))) / a;","  float zaslona = smoothstep(0.0, 0.08, delta / (a * 0.6)) * step(0.0, t0) * step(t0, 1.0) * uZal * uZal;","  float j = aJ.x * uJasK * (1.0 - 0.93 * zaslona);","  stan(rzut(P), pyl(aJ.y), j, aJ.y, krok(uP, aJ.y), uWir);","}"].join(`
 `),Oe=["attribute vec3 aNorm; attribute vec2 aJ; attribute vec2 aH; attribute float aD; attribute float aR;","void main(){","  float wP = 1.0 - uZal;","  float s = step(0.0, aH.x);","  mat3 Rh = uRL * s + uRR * (1.0 - s);","  vec3 P = Rh * vec3(position.xy, position.z * uKs) * uSc + mix(uTR, uTL, s) + vec3(0.0, 0.0, aH.y * (1.0 - uZal));","  vec3 n = normalize(uR * (Rh * aNorm));","  vec3 v = widok(P), doKam = normalize(vec3(0.0, 0.0, uOdl) - v);","  float lam = 0.32 + 0.68 * max(dot(n, normalize(vec3(-0.45, 0.65, 0.6))), 0.0);","  float tyl = mix(1.0, mix(0.22, 1.0, smoothstep(-0.2, 0.3, dot(n, doKam))), uZal);","  float boczna = mix(smoothstep(-0.35, 0.0, aH.x * aNorm.z), 1.0, uZal);","  float obrys = mix(aR * 1.6, pow(1.0 - abs(dot(n, doKam)), 4.0), uZal) * uObrys;","  float korona = smoothstep(0.15, -0.6, aJ.x); korona *= korona;","  float k = mix(clamp(0.78 - aJ.x * 0.27, 0.1, 1.1), 0.03 + 1.25 * korona, wP);","  float lamP = mix(lam, 0.55 + 0.45 * lam, wP);","  float j = uJasM * boczna * (lamP * tyl * k + obrys);","  j *= 1.0 - 0.35 * uSiecA * wP - 0.22 * uSiecA * uZal;","  float er = clamp((uRys - aD) / 0.06, 0.0, 1.0); er = er * er * (3.0 - 2.0 * er);","  j *= 1.0 + 1.6 * er * (1.0 - er);","  vec3 c = rzut(P);","  stan(c, c.xy + vec2(sin(aJ.y * 91.0), cos(aJ.y * 53.0)) * 5.0, j, aJ.y, er, 0.0);","}"].join(`
